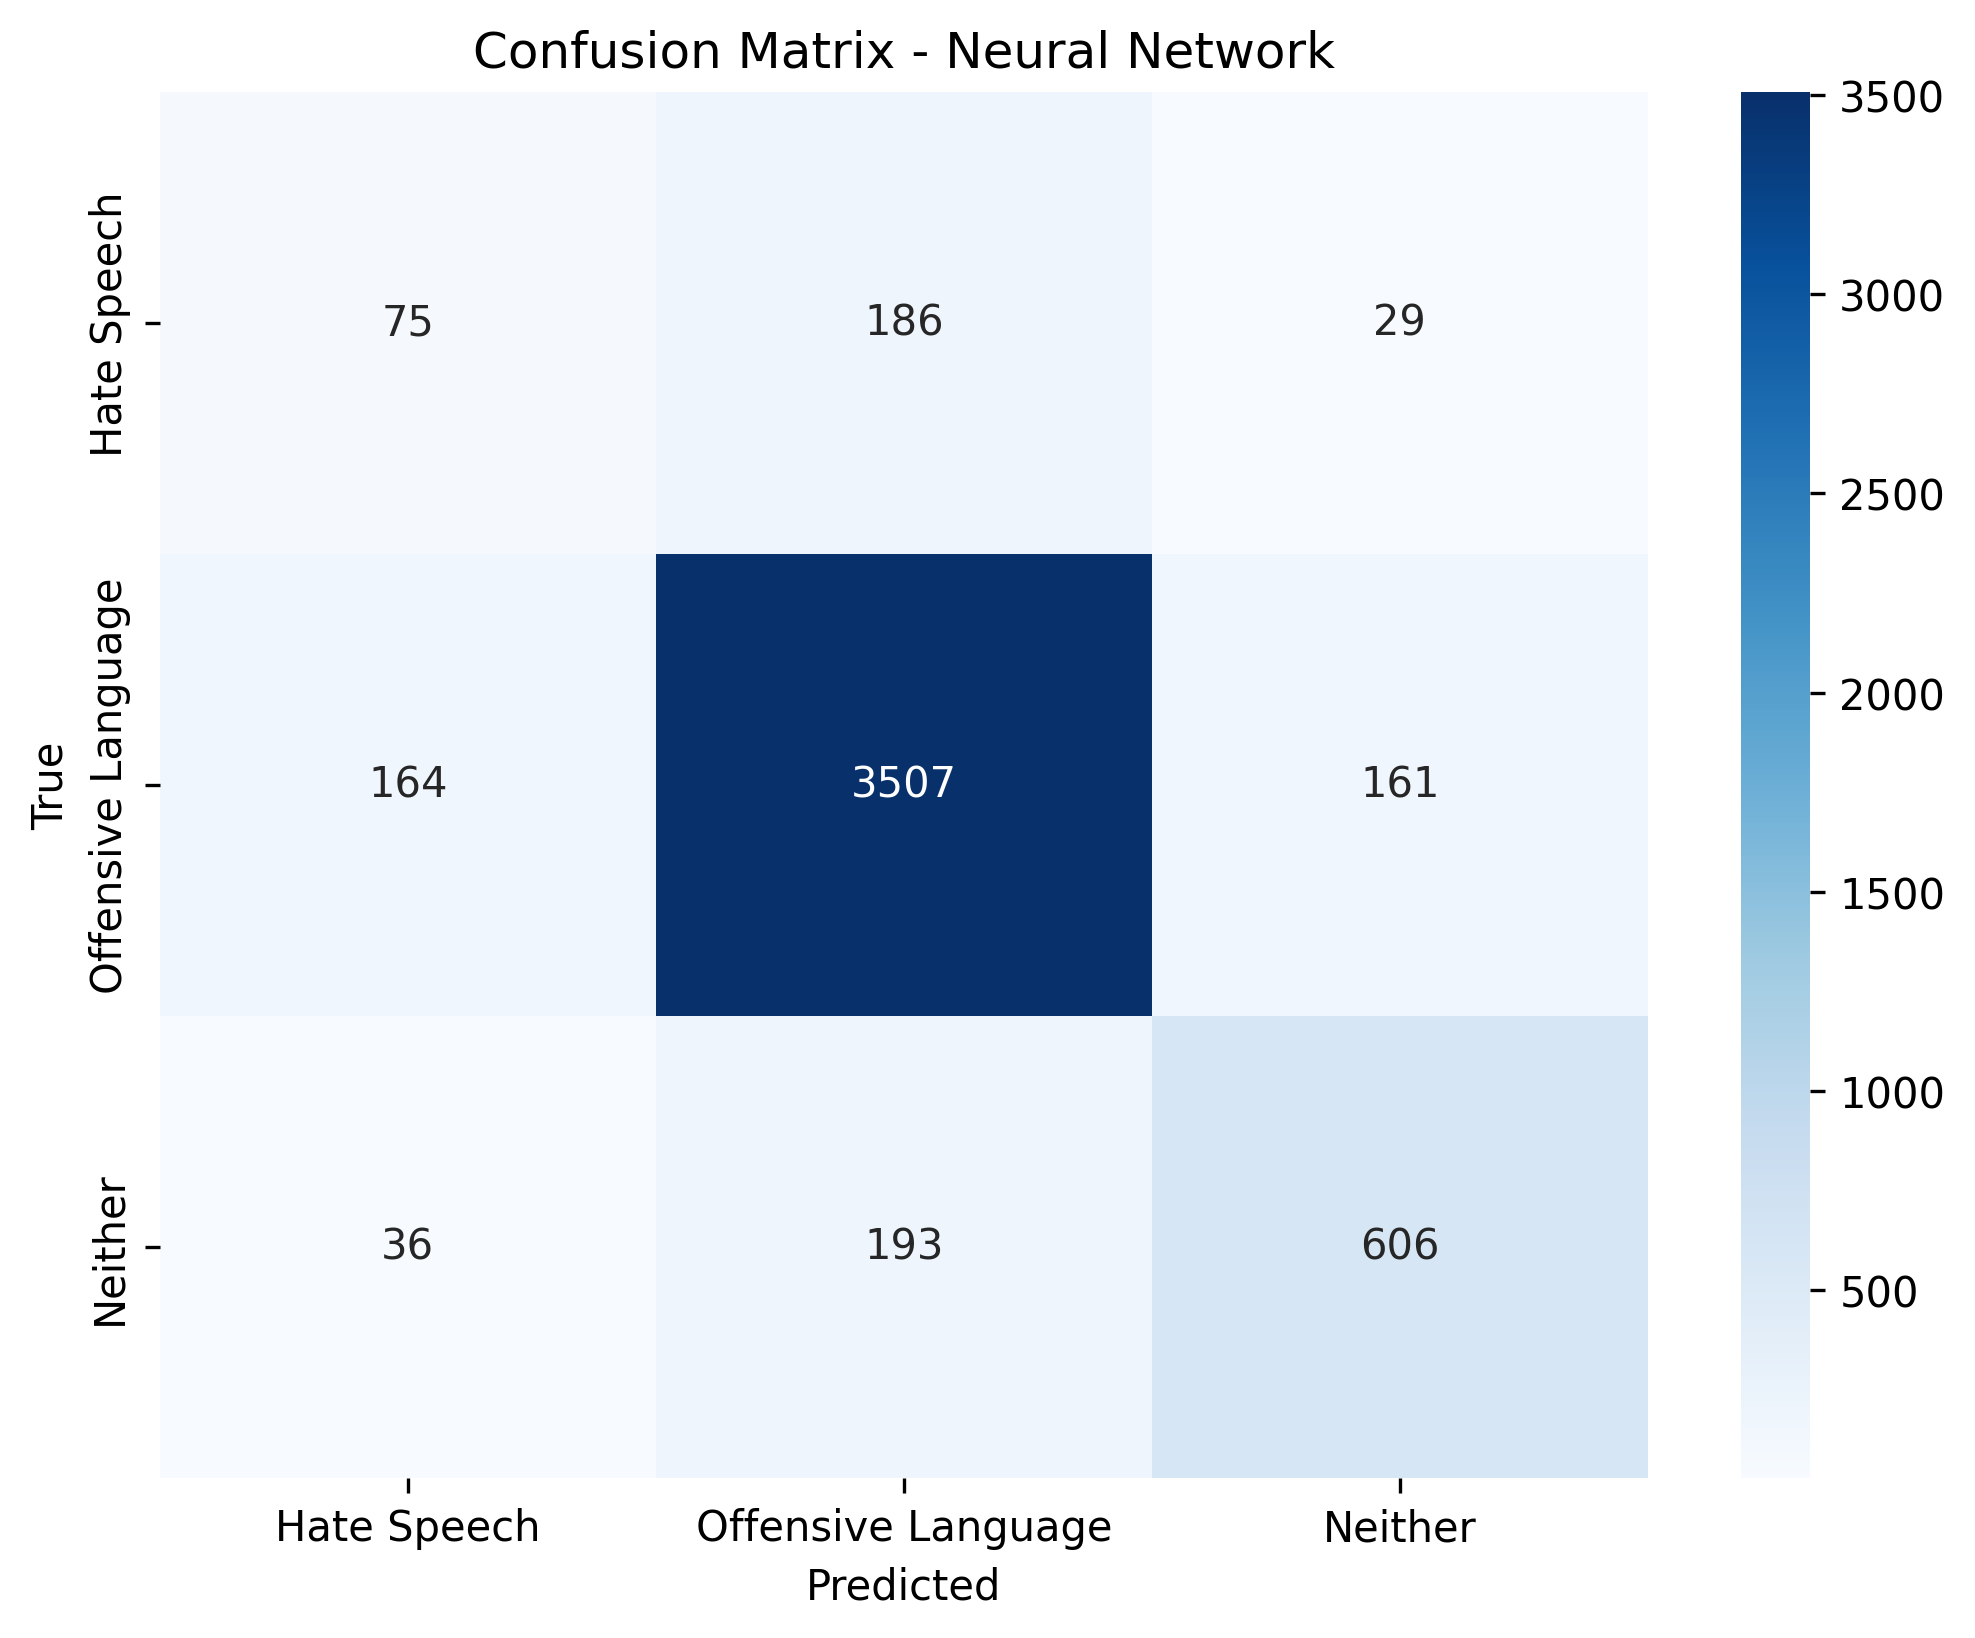
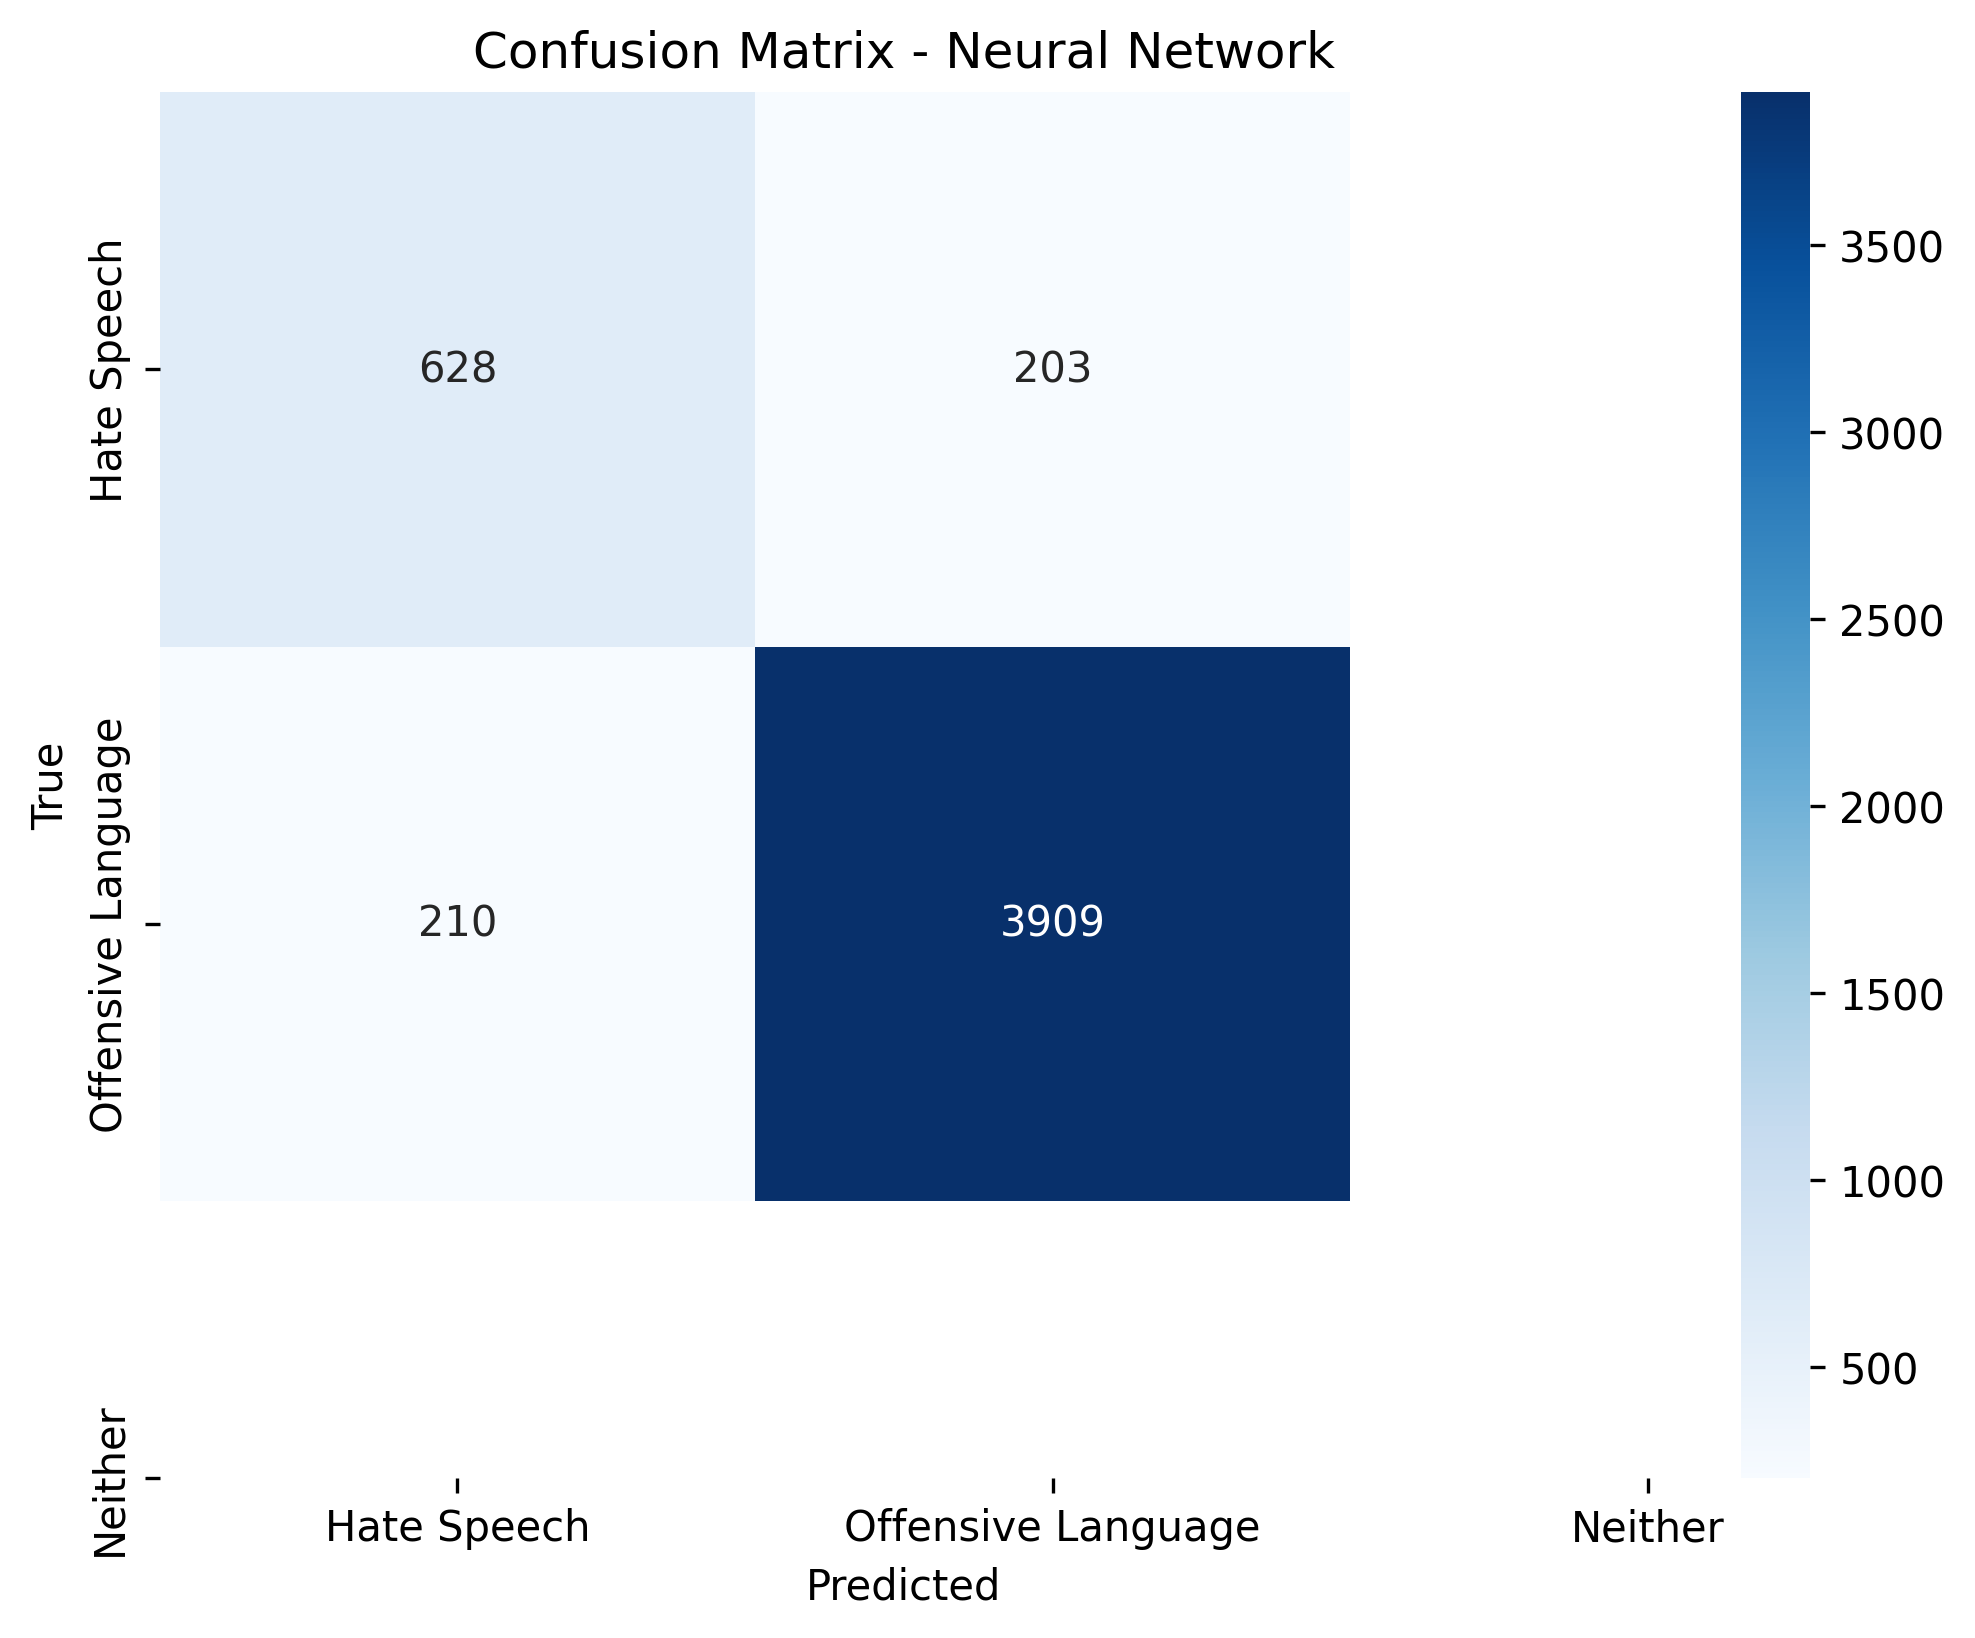
enhancing the accuracy result

diff --git a/preprocessing/load_data.py b/preprocessing/load_data.py
@@ -5,38 +5,93 @@ from nltk.corpus import stopwords
 from nltk.stem import PorterStemmer
 from sklearn.model_selection import train_test_split
 from sklearn.feature_extraction.text import TfidfVectorizer
+from sklearn.utils.class_weight import compute_class_weight
+import numpy as np
 
 # Download NLTK resources (run once)
 nltk.download('stopwords')
 
 # Initialize stop words and stemmer
 stop_words = set(stopwords.words('english'))
+# Add domain-specific stopwords (e.g., common Twitter terms or slang)
+custom_stopwords = {'rt', 'amp', 'lol', 'lmao', 'smh', 'tho', 'ya', 'yall', 'u', 'ur', 'nig', 'nigga', 'niggah'}
+stop_words.update(custom_stopwords)
 stemmer = PorterStemmer()
 
 def clean_tweet(tweet):
     """Clean and preprocess a tweet."""
+    if not isinstance(tweet, str):  # Handle non-string inputs
+        return ''
+    
     tweet = tweet.lower()  # Convert to lowercase
-    tweet = re.sub(r'http\S+|www\S+|https\S+', '', tweet, flags=re.MULTILINE)  # Remove URLs
-    tweet = re.sub(r'@\w+', '', tweet)  # Remove mentions
-    tweet = re.sub(r'#\w+', '', tweet)  # Remove hashtags
-    tweet = re.sub(r'\d+', '', tweet)  # Remove numbers
-    tweet = re.sub(r'[^\w\s]', '', tweet)  # Remove punctuation
+    
+    # Remove URLs
+    tweet = re.sub(r'http\S+|www\S+|https\S+', '', tweet, flags=re.MULTILINE)
+    
+    # Remove mentions and hashtags
+    tweet = re.sub(r'@\w+|#\w+', '', tweet)
+    
+    # Remove emojis (basic Unicode range for emojis)
+    tweet = re.sub(r'[\U0001F600-\U0001F64F\U0001F300-\U0001F5FF\U0001F680-\U0001F6FF\U0001F1E0-\U0001F1FF]', '', tweet)
+    
+    # Remove numbers
+    tweet = re.sub(r'\d+', '', tweet)
+    
+    # Remove punctuation and special characters
+    tweet = re.sub(r'[^\w\s]', '', tweet)
+    
+    # Remove extra whitespace
+    tweet = ' '.join(tweet.split())
+    
     # Remove stop words and apply stemming
-    tweet = ' '.join([stemmer.stem(word) for word in tweet.split() if word not in stop_words])
+    tweet = ' '.join([stemmer.stem(word) for word in tweet.split() if word not in stop_words and len(word) > 2])
+    
     return tweet
 
 def load_and_prepare_data(file_path):
+    """Load and preprocess dataset for binary classification."""
+    # Load the dataset
     df = pd.read_csv(file_path)
-    df['tweet'] = df['tweet'].apply(clean_tweet)  # Assuming clean_tweet is defined
+    
+    # Clean tweets
+    df['tweet'] = df['tweet'].apply(clean_tweet)
+    
+    # Convert to binary classification: 0 (Hate Speech) and 1 (Offensive Language) -> 1 (Negative), 2 (Neither) -> 0 (Positive)
+    df['binary_class'] = df['class'].apply(lambda x: 1 if x in [0, 1] else 0)
+    
+    # Remove empty tweets after cleaning
+    df = df[df['tweet'].str.strip() != '']
+    
+    # Features and labels
     X = df['tweet']
-    y = df['class']
-    vectorizer = TfidfVectorizer(max_features=5000, ngram_range=(1, 2), min_df=2, max_df=0.8)
+    y = df['binary_class']
+    
+    # Vectorize text
+    vectorizer = TfidfVectorizer(
+        max_features=10000,  # Increased to capture more features
+        ngram_range=(1, 3),  # Include unigrams, bigrams, and trigrams
+        min_df=2,  # Ignore terms that appear in fewer than 2 documents
+        max_df=0.85,  # Ignore terms that appear in more than 85% of documents
+        sublinear_tf=True  # Apply sublinear term frequency scaling
+    )
     X_vec = vectorizer.fit_transform(X)
-    X_train, X_test, y_train, y_test = train_test_split(X_vec, y, test_size=0.2, random_state=42)
-    return X_train, X_test, y_train, y_test, vectorizer
+    
+    # Split data
+    X_train, X_test, y_train, y_test = train_test_split(
+        X_vec, y, test_size=0.2, random_state=42, stratify=y
+    )
+    
+    # Compute class weights to handle imbalance
+    classes = np.unique(y_train)
+    class_weights = compute_class_weight('balanced', classes=classes, y=y_train)
+    class_weight_dict = dict(zip(classes, class_weights))
+    
+    return X_train, X_test, y_train, y_test, vectorizer, class_weight_dict
 
 # Example usage (uncomment to test)
 # if __name__ == "__main__":
-#     file_path = "path_to_your_dataset.csv"
-#     X_train, X_test, y_train, y_test, vectorizer = load_and_prepare_data(file_path)
-#     print(X_train.shape, X_test.shape)
+#     file_path = "data/labeled_data.csv"
+#     X_train, X_test, y_train, y_test, vectorizer, class_weights = load_and_prepare_data(file_path)
+#     print(f"X_train shape: {X_train.shape}, X_test shape: {X_test.shape}")
+#     print(f"Class distribution: {np.bincount(y_train)}")
+#     print(f"Class weights: {class_weights}")

diff --git a/models/decision_tree_gini.py b/models/decision_tree_gini.py
@@ -4,30 +4,29 @@ import matplotlib.pyplot as plt
 import os
 from utils.evaluate import evaluate_model
 
-def train_decision_tree_gini(X_train_vec, X_test_vec, y_train, y_test):
-    model = DecisionTreeClassifier(criterion='gini')
+def train_decision_tree_gini(X_train_vec, X_test_vec, y_train, y_test, class_weight=None):
+    model = DecisionTreeClassifier(criterion='gini', class_weight=class_weight, max_depth=10, min_samples_split=5, min_samples_leaf=2)
     model.fit(X_train_vec, y_train)
     y_pred = model.predict(X_test_vec)
     
     # Visualize the decision tree
-    visualize_decision_tree(model, X_train_vec)
+    #visualize_decision_tree(model, X_train_vec)
     
     metrics = evaluate_model(y_test, y_pred)
     return metrics, y_pred
 
-def visualize_decision_tree(model, X_train_vec):
-    # Create visualizations directory if it doesn't exist
-    os.makedirs('visualizations', exist_ok=True)
+# def visualize_decision_tree(model, X_train_vec):
+#     # Create visualizations directory if it doesn't exist
+#     os.makedirs('visualizations', exist_ok=True)
     
-    # Plot the decision tree
-    plt.figure(figsize=(20, 10))
-    plot_tree(model, 
-              feature_names=[f"feature_{i}" for i in range(X_train_vec.shape[1])], 
-              class_names=['Hate Speech', 'Offensive Language', 'Neither'], 
-              filled=True, 
-              rounded=True, 
-              max_depth=3,  # Limit depth for readability
-              fontsize=10)
-    plt.title("Decision Tree (Gini) Visualization (Max Depth = 3)")
-    plt.savefig('visualizations/decision_tree_gini.png', dpi=300, bbox_inches='tight')
-    plt.close()
+#     # Plot the decision tree
+#     plt.figure(figsize=(20, 10))
+#     plot_tree(model, 
+#               feature_names=[f"feature_{i}" for i in range(X_train_vec.shape[1])], 
+#               class_names=['Positive', 'Negative'],  # Updated for binary classification
+#               filled=True, 
+#               rounded=True, 
+#               max_depth=3,  # Limit depth for readability
+#               fontsize=10)
+#     plt.title("Decision Tree (Gini) Visualization (Max Depth = 3)")
+#     plt.savefig('visualizations/decision_tree_gini.png', dpi=300, bbox_inches='tight')

diff --git a/main.py b/main.py
@@ -8,17 +8,17 @@ from models.neural_net_model import train_neural_net
 from utils.exploare_data import plot_confusion_matrix
 
 if __name__ == '__main__':
-    # Load and split data, unpacking five values and ignoring the vectorizer
-    X_train_vec, X_test_vec, y_train, y_test, _ = load_and_prepare_data('data/labeled_data.csv')
+    # Load and split data, unpacking six values including class weights
+    X_train_vec, X_test_vec, y_train, y_test, vectorizer, class_weights = load_and_prepare_data('data/labeled_data.csv')
     
     # Dictionary to map model functions to names for visualization
     models = {
-        'K-Nearest Neighbors (KNN)': train_knn,
-        'Support Vector Machine (SVM)': train_svm,
-        'Decision Tree (Entropy)': train_decision_tree_entropy,
-        'Decision Tree (Gini)': train_decision_tree_gini,
-        'Random Forest': train_random_forest,
-        'Neural Network': train_neural_net
+        'K-Nearest Neighbors (KNN)': lambda x_train, x_test, y_train, y_test: train_knn(x_train, x_test, y_train, y_test),
+        'Support Vector Machine (SVM)': lambda x_train, x_test, y_train, y_test: train_svm(x_train, x_test, y_train, y_test, class_weights),
+        'Decision Tree (Entropy)': lambda x_train, x_test, y_train, y_test: train_decision_tree_entropy(x_train, x_test, y_train, y_test, class_weights),
+        'Decision Tree (Gini)': lambda x_train, x_test, y_train, y_test: train_decision_tree_gini(x_train, x_test, y_train, y_test, class_weights),
+        'Random Forest': lambda x_train, x_test, y_train, y_test: train_random_forest(x_train, x_test, y_train, y_test, class_weights),
+        'Neural Network': lambda x_train, x_test, y_train, y_test: train_neural_net(x_train, x_test, y_train, y_test, class_weights)
     }
 
     # Train and evaluate each model

diff --git a/models/decision_tree_entropy.py b/models/decision_tree_entropy.py
@@ -1,9 +1,32 @@
 from sklearn.tree import DecisionTreeClassifier
+from sklearn.tree import plot_tree
+import matplotlib.pyplot as plt
+import os
 from utils.evaluate import evaluate_model
 
-def train_decision_tree_entropy(X_train_vec, X_test_vec, y_train, y_test):
-    model = DecisionTreeClassifier(criterion='entropy')
+def train_decision_tree_entropy(X_train_vec, X_test_vec, y_train, y_test, class_weight=None):
+    model = DecisionTreeClassifier(criterion='entropy', class_weight=class_weight, max_depth=10, min_samples_split=5, min_samples_leaf=2)
     model.fit(X_train_vec, y_train)
     y_pred = model.predict(X_test_vec)
+    
+    # Visualize the decision tree
+   # visualize_decision_tree(model, X_train_vec)
+    
     metrics = evaluate_model(y_test, y_pred)
     return metrics, y_pred
+
+# def visualize_decision_tree(model, X_train_vec):
+#     # Create visualizations directory if it doesn't exist
+#     os.makedirs('visualizations', exist_ok=True)
+    
+#     # Plot the decision tree
+#     plt.figure(figsize=(20, 10))
+#     plot_tree(model, 
+#               feature_names=[f"feature_{i}" for i in range(X_train_vec.shape[1])], 
+#               class_names=['Positive', 'Negative'],  # Updated for binary classification
+#               filled=True, 
+#               rounded=True, 
+#               max_depth=3,  # Limit depth for readability
+#               fontsize=10)
+#     plt.title("Decision Tree (Entropy) Visualization (Max Depth = 3)")
+#     plt.show('visualizations/decision_tree_entropy.png', dpi=300, bbox_inches='tight')

diff --git a/models/neural_net_model.py b/models/neural_net_model.py
@@ -1,9 +1,10 @@
 from sklearn.neural_network import MLPClassifier
 from utils.evaluate import evaluate_model
 
-def train_neural_net(X_train_vec, X_test_vec, y_train, y_test):
-    mlp = MLPClassifier(hidden_layer_sizes=(64, 32), max_iter=300, random_state=42)
-    mlp.fit(X_train_vec, y_train)
-    y_pred = mlp.predict(X_test_vec)
+def train_neural_net(X_train_vec, X_test_vec, y_train, y_test, class_weight=None):
+    model = MLPClassifier(hidden_layer_sizes=(100,), max_iter=500, learning_rate_init=0.001, 
+                         random_state=42)
+    model.fit(X_train_vec, y_train)
+    y_pred = model.predict(X_test_vec)
     metrics = evaluate_model(y_test, y_pred)
     return metrics, y_pred

diff --git a/models/random_forest_model.py b/models/random_forest_model.py
@@ -1,8 +1,8 @@
 from sklearn.ensemble import RandomForestClassifier
 from utils.evaluate import evaluate_model
 
-def train_random_forest(X_train_vec, X_test_vec, y_train, y_test):
-    model = RandomForestClassifier(n_estimators=100, random_state=42)
+def train_random_forest(X_train_vec, X_test_vec, y_train, y_test, class_weight=None):
+    model = RandomForestClassifier(n_estimators=100, class_weight=class_weight, max_depth=10, min_samples_split=5, min_samples_leaf=2, random_state=42)
     model.fit(X_train_vec, y_train)
     y_pred = model.predict(X_test_vec)
     metrics = evaluate_model(y_test, y_pred)

diff --git a/models/svm_model.py b/models/svm_model.py
@@ -1,8 +1,8 @@
 from sklearn.svm import SVC
 from utils.evaluate import evaluate_model
 
-def train_svm(X_train_vec, X_test_vec, y_train, y_test):
-    model = SVC(kernel='linear')
+def train_svm(X_train_vec, X_test_vec, y_train, y_test, class_weight=None):
+    model = SVC(kernel='linear', class_weight=class_weight, probability=True)
     model.fit(X_train_vec, y_train)
     y_pred = model.predict(X_test_vec)
     metrics = evaluate_model(y_test, y_pred)

diff --git a/models/knn_model.py b/models/knn_model.py
@@ -2,7 +2,7 @@ from sklearn.neighbors import KNeighborsClassifier
 from utils.evaluate import evaluate_model
 
 def train_knn(X_train_vec, X_test_vec, y_train, y_test):
-    model = KNeighborsClassifier(n_neighbors=3)
+    model = KNeighborsClassifier(n_neighbors=5, weights='distance', metric='cosine')
     model.fit(X_train_vec, y_train)
     y_pred = model.predict(X_test_vec)
     metrics = evaluate_model(y_test, y_pred)
